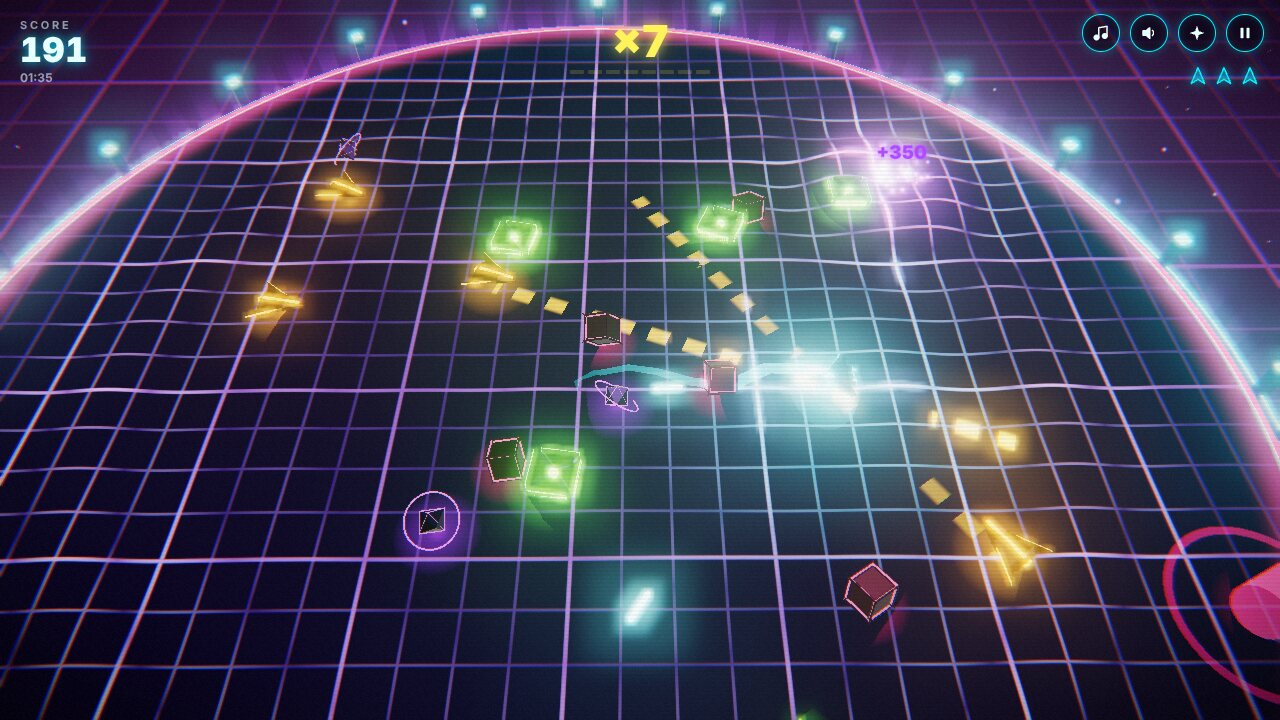
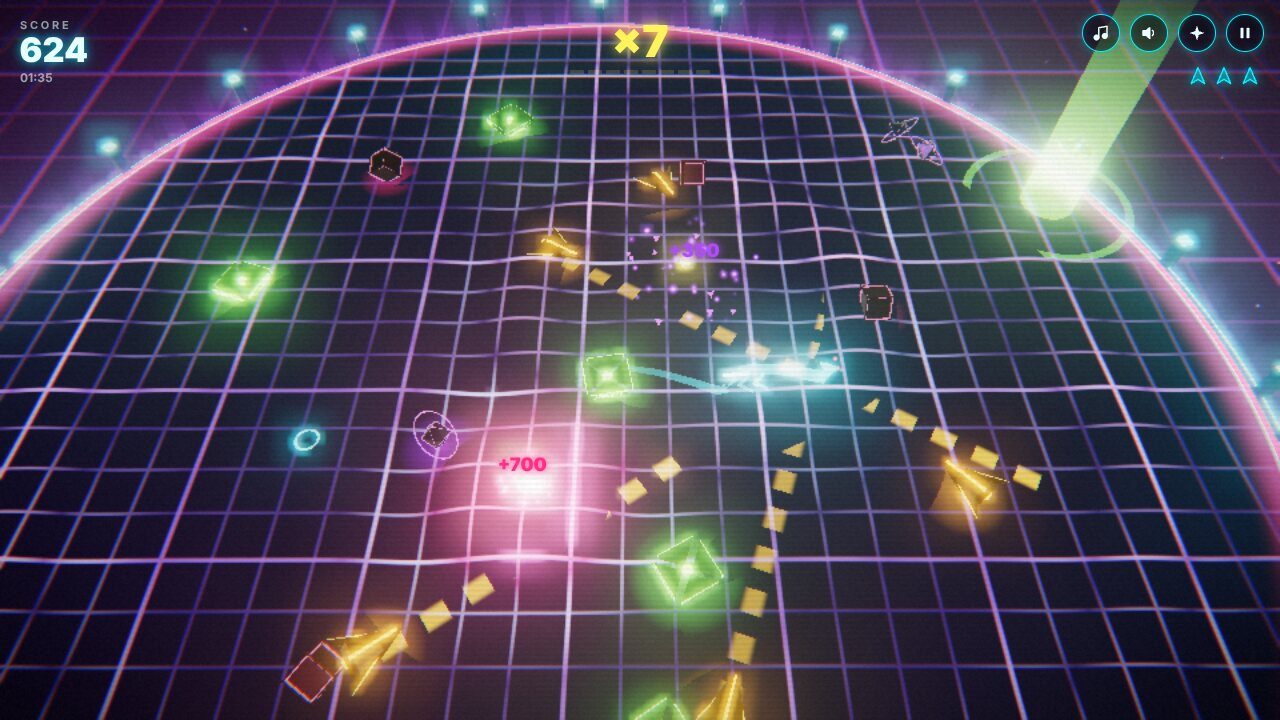
fix: make the PULSAR 3D ship readable and apply QA review fixes
- ship 45% larger with cyan-tinted hull and hotter trim; floor light pool
  under it toned down so heading and movement read; heading chevrons on the
  floor and a mouse reticle; stronger banking
- game over now releases dead enemies and clears bullets/sparks/power-ups
- Space activates a focused button; daily mode moved to Y (D is move-right)
- daily seed uses UTC and draws spawn positions before the enemy cap
- overdrive bullets track every enemy hit; newborn minis briefly immune
- particle scale follows the live FOV; music reverb rides the music bus;
  UI sounds no longer queue while audio is suspended; fewer per-frame
  allocations

Story: PROTO-PULSAR-01

Claude-Session: https://claude.ai/code/session_01EkkX7U38aBNCYxpxzdMGYb

diff --git a/prototypes/pulsar3d/index.html b/prototypes/pulsar3d/index.html
@@ -145,7 +145,7 @@
   <div class="tag">NEON ARENA SHOOTER</div>
   <div id="modes">
     <button class="mode" id="play"><b>PLAY</b><small>click · tap · space</small></button>
-    <button class="mode" id="daily"><b>DAILY PULSE</b><small id="dailySub">same run for everyone · D</small></button>
+    <button class="mode" id="daily"><b>DAILY PULSE</b><small id="dailySub">same run for everyone · Y</small></button>
   </div>
   <div id="bestLine"></div>
 </div>
@@ -215,6 +215,8 @@ const ENEMY = {
 const POWER = { spread: { label: 'SPREAD', color: '#4DFFC3' }, overdrive: { label: 'OVERDRIVE', color: '#FFF35C' }, shield: { label: 'SHIELD', color: '#00F0FF' } };
 const HEX = { player: '#00F0FF', spark: '#FFF35C', danger: '#FF3B30', pink: '#FF2E88', mint: '#4DFFC3', white: '#FFFFFF' };
 const col = h => new THREE.Color(h);
+const SHARED = {};
+const hdrC = (h, k) => SHARED[h + k] || (SHARED[h + k] = new THREE.Color(h).multiplyScalar(k)); // cached, read-only
 const hdr = (h, k) => new THREE.Color(h).multiplyScalar(k);
 
 // ---------- storage / settings ----------
@@ -226,7 +228,7 @@ const reduceMotion = (() => { try { return matchMedia('(prefers-reduced-motion: 
 const settings = Object.assign({ music: true, sfx: true, fx: reduceMotion ? 'calm' : 'full' }, store.get('pulsar3d_settings', {}));
 let best = Object.assign({ score: 0, mult: 1, chain: 0, time: 0 }, store.get('pulsar3d_best', {}));
 let dailyBest = store.get('pulsar3d_daily', { day: '', score: 0 });
-const todayKey = () => { const d = new Date(); return d.getFullYear() + '-' + (d.getMonth() + 1) + '-' + d.getDate(); };
+const todayKey = () => { const d = new Date(); return d.getUTCFullYear() + '-' + (d.getUTCMonth() + 1) + '-' + d.getUTCDate(); }; // UTC: one daily run worldwide
 
 // ---------- RNG ----------
 function mulberry32(a) { return function () { a |= 0; a = a + 0x6D2B79F5 | 0; let t = Math.imul(a ^ a >>> 15, 1 | a);
@@ -271,6 +273,7 @@ const Sound = {
     const len = c.sampleRate * 2, ir = c.createBuffer(2, len, c.sampleRate);
     for (let ch = 0; ch < 2; ch++) { const d = ir.getChannelData(ch); for (let i = 0; i < len; i++) d[i] = (Math.random() * 2 - 1) * Math.pow(1 - i / len, 3); }
     this.reverb = c.createConvolver(); this.reverb.buffer = ir; const rvOut = c.createGain(); rvOut.gain.value = 0.18; this.reverb.connect(rvOut); rvOut.connect(comp);
+    this.reverbMusic = c.createConvolver(); this.reverbMusic.buffer = ir; const rvm = c.createGain(); rvm.gain.value = 0.18; this.reverbMusic.connect(rvm); rvm.connect(this.duck);
     this.noise = c.createBuffer(1, c.sampleRate, c.sampleRate); const nd = this.noise.getChannelData(0); for (let i = 0; i < nd.length; i++) nd[i] = Math.random() * 2 - 1;
     const sb = c.createBufferSource(); sb.buffer = c.createBuffer(1, 1, 22050); sb.connect(c.destination); sb.start(0);
     this.ready = true; this.nextTime = c.currentTime + 0.08; this.startTime = this.nextTime; this.step = 0;
@@ -296,7 +299,7 @@ const Sound = {
     head.connect(g); this.env(g, t, o.a || 0.002, o.d, o.peak); g.connect(o.dest || this.sfx);
     const music = o.dest === this.pump;
     if (o.delay) { const s = c.createGain(); s.gain.value = o.delay; g.connect(s); s.connect(music ? this.delayMusic : this.delay); nodes.push(s); }
-    if (o.rev) { const s = c.createGain(); s.gain.value = o.rev; g.connect(s); s.connect(this.reverb); nodes.push(s); }
+    if (o.rev) { const s = c.createGain(); s.gain.value = o.rev; g.connect(s); s.connect(music ? this.reverbMusic : this.reverb); nodes.push(s); }
     osc.start(t); osc.stop(t + (o.a || 0.002) + o.d + 0.05); this.track(osc, nodes);
   },
   noiseHit(o) {
@@ -306,7 +309,7 @@ const Sound = {
     const g = c.createGain(), nodes = [fl, g]; src.connect(fl); let head = fl;
     if (o.shape) { fl.connect(o.shape); head = o.shape; nodes.push(o.shape); }
     head.connect(g); this.env(g, t, o.a || 0.001, o.d, o.peak); g.connect(o.dest || this.sfx);
-    if (o.rev) { const s = c.createGain(); s.gain.value = o.rev; g.connect(s); s.connect(this.reverb); nodes.push(s); }
+    if (o.rev) { const s = c.createGain(); s.gain.value = o.rev; g.connect(s); s.connect(o.dest === this.pump ? this.reverbMusic : this.reverb); nodes.push(s); }
     src.start(t, Math.random() * 0.5); src.stop(t + (o.a || 0.001) + o.d + 0.05); this.track(src, nodes);
   },
   softClip(k) { const n = 256, curve = new Float32Array(n); for (let i = 0; i < n; i++) { const x = i * 2 / n - 1; curve[i] = (1 + k) * x / (1 + k * Math.abs(x)); }
@@ -324,7 +327,7 @@ const Sound = {
     this.tone({ type: 'sine', f0: f * 0.5, f1: f, d: 0.16, a: 0.03, peak: 0.035, delay: 0.2 }); },
   spark(n) { if (!this.ok()) return; const f = 1400 * Math.pow(2, (n % CONFIG.sparksPerMult) / 12); this.tone({ type: 'sine', f0: f, f1: f * 1.5, d: 0.06, peak: 0.05 }); },
   pickup() { if (!this.ok(true)) return; const t = this.now; [523.25, 659.25, 783.99, 1046.5].forEach((f, i) => this.tone({ type: 'square', f0: f, d: 0.08, peak: 0.1, t: t + i * 0.05, delay: 0.25, filter: { type: 'lowpass', f: 4000 } })); },
-  hurt() { if (!this.ready || !settings.sfx) return; const c = this.ctx, t = c.currentTime;
+  hurt() { if (!this.ready || !settings.sfx || this.ctx.state !== 'running') return; const c = this.ctx, t = c.currentTime;
     const osc = c.createOscillator(), fl = c.createBiquadFilter(), g = c.createGain(), lfo = c.createOscillator(), lg = c.createGain(), gate = c.createGain();
     osc.type = 'sawtooth'; osc.frequency.setValueAtTime(300, t); osc.frequency.exponentialRampToValueAtTime(80, t + 0.25);
     fl.type = 'lowpass'; fl.frequency.value = 1200; lfo.type = 'square'; lfo.frequency.value = 30; lg.gain.value = 0.5; gate.gain.value = 0.5;
@@ -340,8 +343,8 @@ const Sound = {
   alarm() { if (!this.ok(true)) return; const t = this.now; for (let i = 0; i < 3; i++) this.tone({ type: 'sawtooth', f0: 220, f1: 440, d: 0.16, a: 0.01, peak: 0.07, t: t + i * 0.2, filter: { type: 'lowpass', f: 1800 } }); },
   dashCharge() { if (!this.ok()) return; this.tone({ type: 'sawtooth', f0: 120, f1: 520, d: 0.55, a: 0.05, peak: 0.04, filter: { type: 'lowpass', f: 1500 } }); },
   shieldBreak() { if (!this.ok(true)) return; this.tone({ type: 'triangle', f0: 1800, f1: 200, d: 0.35, peak: 0.18, rev: 0.4 }); this.noiseHit({ ft: 'highpass', f0: 3000, d: 0.2, peak: 0.15 }); },
-  gameOver() { if (!this.ready || !settings.sfx) return; this.tone({ type: 'sawtooth', f0: 220, f1: 55, d: 2.0, sweep: 1.5, peak: 0.25, filter: { type: 'lowpass', f: 2000, f1: 150, sweep: 1.5 }, rev: 0.7 }); },
-  click() { if (!this.ready || !settings.sfx) return; this.tone({ type: 'sine', f0: 1200, d: 0.03, a: 0.001, peak: 0.1 }); },
+  gameOver() { if (!this.ready || !settings.sfx || this.ctx.state !== 'running') return; this.tone({ type: 'sawtooth', f0: 220, f1: 55, d: 2.0, sweep: 1.5, peak: 0.25, filter: { type: 'lowpass', f: 2000, f1: 150, sweep: 1.5 }, rev: 0.7 }); },
+  click() { if (!this.ready || !settings.sfx || this.ctx.state !== 'running') return; this.tone({ type: 'sine', f0: 1200, d: 0.03, a: 0.001, peak: 0.1 }); },
   schedule() {
     if (!this.ready || this.ctx.state !== 'running') return;
     const stepDur = 60 / this.BPM / 4;
@@ -537,7 +540,7 @@ const floorMat = new THREE.ShaderMaterial({
       lineC += (minor + major) * min(wave, 1.2) * 0.8 * mix(vec3(0.1, 1.2, 1.6), vec3(1.6, 0.2, 0.9), clamp(vH * 0.6 + 0.5, 0.0, 1.0));
       vec3 c = base + lineC;
       vec2 dp = vW.xz - uPlayer.xz; float pd = dot(dp, dp);
-      c += vec3(0.0, 0.85, 1.0) * (exp(-pd * 0.07) * 0.22 + (minor + major) * exp(-pd * 0.03) * 0.6);
+      c += vec3(0.0, 0.85, 1.0) * (exp(-pd * 0.09) * 0.07 + (minor + major) * exp(-pd * 0.05) * 0.18);
       for (int i = 0; i < ${MAX_FL}; i++) { vec4 f = uFl[i]; if (f.w <= 0.001) continue; vec2 d = vW.xz - f.xy;
         float k = exp(-dot(d, d) / (f.z * f.z)); c += uFlC[i] * f.w * k * (0.35 + (minor + major) * 1.4); }
       float edge = smoothstep(uR - 2.2, uR, r);
@@ -590,9 +593,9 @@ const ringGeo = new THREE.RingGeometry(0.9, 1, 64); ringGeo.rotateX(-Math.PI / 2
 // =====================================================================
 const TEMPL = {};
 const UP = new THREE.Vector3(0, 1, 0);
-function materialsFor(hex, bodyTint = 0.07) {
+function materialsFor(hex, bodyTint = 0.07, glowK = 2.6) {
   const body = new THREE.MeshStandardMaterial({ color: new THREE.Color('#0d0b18').lerp(new THREE.Color(hex), bodyTint), metalness: 0.92, roughness: 0.26, envMapIntensity: 1.4 });
-  const glow = new THREE.MeshBasicMaterial({ color: hdr(hex, 2.6) });
+  const glow = new THREE.MeshBasicMaterial({ color: hdr(hex, glowK) });
   const glass = new THREE.MeshStandardMaterial({ color: new THREE.Color(hex).multiplyScalar(0.3), emissive: new THREE.Color(hex), emissiveIntensity: 0.6, metalness: 0.3, roughness: 0.05 });
   return { body, glow, glass };
 }
@@ -601,8 +604,8 @@ function sanitize(geo) { // a single NaN normal poisons the HDR bloom chain and 
   for (let i = 0; i < n.array.length; i++) if (!Number.isFinite(n.array[i])) { geo.computeVertexNormals(); break; }
   const fixed = geo.attributes.normal.array; for (let i = 0; i < fixed.length; i++) if (!Number.isFinite(fixed[i])) fixed[i] = 0;
 }
-function prepTemplate(src, hex) {
-  const root = src.clone(true), mats = materialsFor(hex);
+function prepTemplate(src, hex, bodyTint, glowK) {
+  const root = src.clone(true), mats = materialsFor(hex, bodyTint, glowK);
   root.traverse(o => { if (!o.isMesh) return; sanitize(o.geometry); const n = (o.material && o.material.name) || '';
     o.material = n.startsWith('Glow') ? mats.glow : n.startsWith('Glass') ? mats.glass : mats.body; });
   return root;
@@ -618,7 +621,7 @@ function fallbackModels() {
   return m;
 }
 function buildTemplates(models) {
-  TEMPL.player = prepTemplate(models.Player, HEX.player);
+  TEMPL.player = prepTemplate(models.Player, HEX.player, 0.32, 3.6);
   for (const t of Object.keys(ENEMY)) TEMPL[t] = prepTemplate(models[ENEMY[t].model], ENEMY[t].color);
 }
 
@@ -750,6 +753,15 @@ function updateTrail(x, z, y, ang, show) {
   trailGeo.attributes.position.needsUpdate = true; trailGeo.attributes.color.needsUpdate = true;
 }
 
+// heading chevron on the floor (always shows where the ship points) and mouse reticle
+const headingObj = new THREE.Group(); scene.add(headingObj);
+{ const sh = new THREE.Shape(); sh.moveTo(0, 0.55); sh.lineTo(-0.55, -0.15); sh.lineTo(-0.32, -0.15); sh.lineTo(0, 0.22); sh.lineTo(0.32, -0.15); sh.lineTo(0.55, -0.15); sh.closePath(); // tip → local -Z (forward)
+  const g = new THREE.ShapeGeometry(sh); g.rotateX(-Math.PI / 2);
+  const m = new THREE.MeshBasicMaterial({ color: hdr(HEX.player, 1.6), transparent: true, depthWrite: false, blending: THREE.AdditiveBlending });
+  [2.3, 3.0].forEach((z, i) => { const c = new THREE.Mesh(g, i ? m.clone() : m); c.position.set(0, 0.06, -z); if (i) c.material.color = hdr(HEX.player, 0.8); headingObj.add(c); }); }
+const reticle = new THREE.Mesh(new THREE.RingGeometry(0.42, 0.55, 32).rotateX(-Math.PI / 2), new THREE.MeshBasicMaterial({ color: hdr(HEX.player, 1.4), transparent: true, depthWrite: false, blending: THREE.AdditiveBlending }));
+scene.add(reticle);
+
 // power-up objects
 const powerObjs = {};
 function makePowerObj(type) {
@@ -818,8 +830,8 @@ function spawnPos(minD) { // fixed number of draws keeps seeded (daily) runs in 
   return pick || c[0];
 }
 function spawnEnemy(type, x, z, warp = CONFIG.spawnWarp) {
+  if (x == null) [x, z] = spawnPos(CONFIG.spawnSafeDist); // draw before the cap check so seeded runs never drift
   if (enemies.length >= CONFIG.maxEnemies) return null;
-  if (x == null) [x, z] = spawnPos(CONFIG.spawnSafeDist);
   const d = ENEMY[type], obj = getEnemyObject(type);
   const e = { id: G.uid++, type, x, z, vx: 0, vz: 0, r: d.r, hp: d.hp, warp, warpMax: warp || 1, ang: rand(0, TAU), wander: rand(0, TAU),
     state: 'rest', timer: d.restTime ? rand(0.4, 1.4) : 0, dashLeft: 0, dir: 0, grazed: false, flash: 0, dead: false, obj, bob: rand(0, TAU) };
@@ -867,7 +879,7 @@ function killEnemy(e, scored) {
   const ns = e.type === 'splitter' ? 3 : 1;
   for (let i = 0; i < ns && sparks.length < MAXS; i++) { const a = rand(0, TAU), s = rand(1.5, 4.5); sparks.push({ x: e.x, z: e.z, vx: Math.cos(a) * s, vz: Math.sin(a) * s, life: CONFIG.sparkLife, ang: rand(0, TAU), y: 2.2, vy: 4 }); }
   if (e.type === 'splitter') for (let i = 0; i < 3; i++) { const a = e.ang + i * TAU / 3;
-    const m = spawnEnemy('mini', e.x + Math.cos(a) * 0.6, e.z + Math.sin(a) * 0.6, 0); if (m) { m.vx = Math.cos(a) * 13; m.vz = Math.sin(a) * 13; } }
+    const m = spawnEnemy('mini', e.x + Math.cos(a) * 0.6, e.z + Math.sin(a) * 0.6, 0); if (m) { m.vx = Math.cos(a) * 13; m.vz = Math.sin(a) * 13; m.immune = 0.12; } }
   if (!powerups.length && G.t - G.lastPower > CONFIG.powerMinGap && dropRng() < CONFIG.powerChance) {
     const types = Object.keys(POWER), type = types[Math.floor(dropRng() * types.length)];
     const rr = Math.min(Math.hypot(e.x, e.z), CONFIG.arenaR - 3), aa = Math.atan2(e.z, e.x);
@@ -913,6 +925,7 @@ function hitPlayer() {
 }
 function endGame() {
   G.state = 'over'; G.overT = 0; playerShadow.visible = false;
+  bullets = []; sparks = []; for (const p of powerups) p.obj.visible = false; powerups = [];
   const run = G.runId;
   enemies.forEach((e, i) => setTimeout(() => { if (G.state === 'over' && G.runId === run) killEnemy(e, false); }, 40 + i * 18));
   if (G.mode === 'daily') { const today = todayKey(), prev = dailyBest.day === today ? dailyBest.score : 0;
@@ -949,7 +962,7 @@ canvas.addEventListener('pointerdown', e => {
 }, { passive: false });
 window.addEventListener('pointermove', e => {
   if (e.pointerType === 'mouse') { input.sx = e.clientX; input.sy = e.clientY;
-    if (!input.mouseMoved && G.state === 'playing') G.autoAim = false; input.mouseMoved = true; if (input.touchMode) { input.touchMode = false; refreshHints(); } return; }
+    if (!input.mouseMoved && G.state === 'playing') { G.autoAim = false; refreshHints(); } input.mouseMoved = true; if (input.touchMode) { input.touchMode = false; refreshHints(); } return; }
   const s = input.stick; if (s.active && e.pointerId === s.id) { s.x = e.clientX; s.y = e.clientY;
     const dx = s.x - s.ox, dy = s.y - s.oy, d = Math.hypot(dx, dy), R = 70; if (d > R) { s.ox = s.x - dx / d * R; s.oy = s.y - dy / d * R; } }
 });
@@ -957,10 +970,12 @@ const endStick = e => { if (input.stick.active && e.pointerId === input.stick.id
 window.addEventListener('pointerup', endStick); window.addEventListener('pointercancel', endStick);
 window.addEventListener('keydown', e => {
   const k = e.code; Sound.init();
+  const onButton = document.activeElement && document.activeElement.tagName === 'BUTTON';
+  if ((k === 'Space' || k === 'Enter') && onButton) return; // let the focused button click itself
   if (['ArrowUp', 'ArrowDown', 'ArrowLeft', 'ArrowRight', 'Space'].includes(k)) e.preventDefault();
   if (e.repeat) return; input.keys[k] = true;
-  if (k === 'Space' || k === 'Enter') { if (document.activeElement && document.activeElement.tagName === 'BUTTON') return; primary(); }
-  else if (k === 'KeyD' && G.state === 'title') startGame('daily');
+  if (k === 'Space' || k === 'Enter') primary();
+  else if (k === 'KeyY' && G.state === 'title') startGame('daily');
   else if (k === 'KeyT' || (k === 'Escape' && G.state === 'over')) goTitle();
   else if (k === 'Escape' || k === 'KeyP') togglePause();
   else if (k === 'KeyM') toggleSetting('music');
@@ -1002,7 +1017,7 @@ const shipSvg = '<svg viewBox="0 0 24 24"><path d="M12 2 L20 21 L12 16 L4 21 Z" 
 function renderLives() { hudEls.lives.innerHTML = shipSvg.repeat(Math.max(0, G.lives)); }
 function refreshHints() {
   $('controls').innerHTML = input.touchMode ? 'drag anywhere to move · auto-aim &amp; auto-fire'
-    : '<span class="kbd">WASD</span> move · <span class="kbd">MOUSE</span> aim · auto-fire · <span class="kbd">P</span> pause · <span class="kbd">M</span> music · <span class="kbd">N</span> sfx · <span class="kbd">F</span> effects';
+    : '<span class="kbd">WASD</span> move · <span class="kbd">MOUSE</span> aim · auto-fire · <span class="kbd">Y</span> daily · <span class="kbd">P</span> pause · <span class="kbd">M</span> music · <span class="kbd">N</span> sfx · <span class="kbd">F</span> effects';
   hudEls.hint.querySelector('.a').textContent = input.touchMode ? 'DRAG ANYWHERE TO MOVE · AUTO-FIRE' : (G.autoAim ? 'WASD / ARROWS TO MOVE · AUTO-AIM' : 'WASD TO MOVE · MOUSE TO AIM · AUTO-FIRE');
   $('pauseHint').textContent = input.touchMode ? 'tap to continue' : 'click · space · P to continue';
   $('retry').textContent = input.touchMode ? 'TAP TO RETRY' : 'CLICK · SPACE TO RETRY';
@@ -1012,7 +1027,7 @@ function showScreen(s) {
   $('hud').classList.toggle('hidden', !(s === 'play' || s === 'pause')); $('pause').classList.toggle('hidden', s !== 'pause');
   $('bPause').classList.toggle('hidden', !(s === 'play' || s === 'pause'));
   const ov = $('over'); if (s === 'over') { ov.classList.remove('hidden'); requestAnimationFrame(() => ov.classList.add('show')); fillGameOver(); } else { ov.classList.add('hidden'); ov.classList.remove('show'); }
-  if (s === 'title') { const db = dailyBest.day === todayKey() && dailyBest.score ? 'today ' + fmt(dailyBest.score) : 'same run for everyone · D';
+  if (s === 'title') { const db = dailyBest.day === todayKey() && dailyBest.score ? 'today ' + fmt(dailyBest.score) : 'same run for everyone · Y';
     $('dailySub').textContent = db; $('bestLine').textContent = best.score > 0 ? 'BEST ' + fmt(best.score) + '  ·  PEAK ×' + (best.mult || 1) : ''; }
   if (s === 'play') { renderLives(); refreshHints(); }
   refreshHints();
@@ -1089,22 +1104,22 @@ function updatePlayer(dt) {
   if (target) turn(Math.atan2(tz - player.z, tx - player.x), 22); else if (ml > 0.1) turn(Math.atan2(mz, mx), 10);
   // bank into lateral motion
   const fx = Math.cos(player.ang), fz = Math.sin(player.ang), lat = (player.vx * -fz + player.vz * fx) / CONFIG.playerSpeed;
-  player.bank = lerp(player.bank, -lat * 0.7, Math.min(1, dt * 8));
+  player.bank = lerp(player.bank, -lat * 1.0, Math.min(1, dt * 8));
   // fire
   const over = G.powerT.overdrive > 0, rate = CONFIG.fireRate * (over ? 2 : 1);
   player.fireCd -= dt;
   if (target && player.fireCd <= 0) {
     player.fireCd += 1 / rate; if (player.fireCd < 0) player.fireCd = 0;
-    const angs = G.powerT.spread > 0 ? [-0.26, -0.13, 0, 0.13, 0.26] : [0], c = over ? HEX.spark : G.powerT.spread > 0 ? HEX.mint : '#7ff8ff';
+    const angs = G.powerT.spread > 0 ? [-0.26, -0.13, 0, 0.13, 0.26] : [0], c = over ? HEX.spark : G.powerT.spread > 0 ? HEX.mint : '#7ff8ff', bc = hdrC(c, 3.2);
     for (const off of angs) { if (bullets.length >= MAXB) break; const an = player.ang + off + rand(-0.025, 0.025);
-      bullets.push({ x: player.x + Math.cos(an) * 1.0, z: player.z + Math.sin(an) * 1.0, vx: Math.cos(an) * CONFIG.bulletSpeed, vz: Math.sin(an) * CONFIG.bulletSpeed, life: CONFIG.bulletLife, pierce: over, hitId: -1, c: hdr(c, 3.2) }); }
+      bullets.push({ x: player.x + Math.cos(an) * 1.0, z: player.z + Math.sin(an) * 1.0, vx: Math.cos(an) * CONFIG.bulletSpeed, vz: Math.sin(an) * CONFIG.bulletSpeed, life: CONFIG.bulletLife, pierce: over, hits: over ? new Set() : null, hitId: -1, c: bc }); }
     Sound.shot();
-    emit(player.x + fx * 1.1, CONFIG.hover, player.z + fz * 1.1, fx * 8 + rand(-2, 2), rand(0, 1.5), fz * 8 + rand(-2, 2), 0.08, hdr('#ffffff', 2), 0.7);
+    emit(player.x + fx * 1.1, CONFIG.hover, player.z + fz * 1.1, fx * 8 + rand(-2, 2), rand(0, 1.5), fz * 8 + rand(-2, 2), 0.08, hdrC('#ffffff', 2), 0.7);
   }
   // engine exhaust + wake
   const sp = Math.hypot(player.vx, player.vz);
   for (const side of [-0.28, 0.28]) { const ex = player.x - fx * 0.75 - fz * side, ez = player.z - fz * 0.75 + fx * side;
-    emit(ex, CONFIG.hover, ez, -fx * rand(3, 7) + rand(-1, 1), rand(-0.5, 0.5), -fz * rand(3, 7) + rand(-1, 1), rand(0.12, 0.28), Math.random() < 0.25 ? hdr(HEX.pink, 2) : hdr(HEX.player, 2), 0.35); }
+    emit(ex, CONFIG.hover, ez, -fx * rand(3, 7) + rand(-1, 1), rand(-0.5, 0.5), -fz * rand(3, 7) + rand(-1, 1), rand(0.12, 0.28), Math.random() < 0.25 ? hdrC(HEX.pink, 2) : hdrC(HEX.player, 2), 0.35); }
   if (sp > 3 && Math.random() < 0.25) ripple(player.x, player.z, 0.12 * sp / CONFIG.playerSpeed);
   if (player.invuln > 0) player.invuln -= dt;
   for (const p in G.powerT) if (G.powerT[p] > 0) G.powerT[p] = Math.max(0, G.powerT[p] - dt);
@@ -1114,7 +1129,7 @@ function updateEnemies(dt) {
   const ss = 1 + Math.min(CONFIG.speedRampMax, G.t / CONFIG.speedRampTime), px = player.x, pz = player.z;
   for (const e of enemies) {
     if (e.dead) continue; const d = ENEMY[e.type];
-    if (e.flash > 0) e.flash -= dt;
+    if (e.flash > 0) e.flash -= dt; if (e.immune > 0) e.immune -= dt;
     if (e.warp > 0) { e.warp -= dt; e.ang += dt * 8; if (e.warp <= 0) { e.obj.beam.visible = false; shock(e.x, e.z, 0.08, d.r * 2.5, 0.2, d.color); } continue; }
     const dx = px - e.x, dz = pz - e.z, dist = Math.hypot(dx, dz) || 1, ux = dx / dist, uz = dz / dist;
     if (player.dead) { e.vx *= 0.95; e.vz *= 0.95; }
@@ -1132,7 +1147,7 @@ function updateEnemies(dt) {
       else if (e.state === 'aim') { e.vx *= 0.85; e.vz *= 0.85; if (e.timer > 0.25) e.dir = Math.atan2(uz, ux); e.ang = e.dir;
         e.timer -= dt; if (e.timer <= 0) { e.state = 'dash'; e.dashLeft = d.dashDist; ripple(e.x, e.z, 0.6); } }
       else { const v = d.dashSpeed * ss; e.vx = Math.cos(e.dir) * v; e.vz = Math.sin(e.dir) * v; e.dashLeft -= v * dt;
-        emit(e.x, CONFIG.hover, e.z, -e.vx * 0.15 + rand(-2, 2), rand(0, 1), -e.vz * 0.15 + rand(-2, 2), 0.3, hdr(d.color, 2.2), 0.5);
+        emit(e.x, CONFIG.hover, e.z, -e.vx * 0.15 + rand(-2, 2), rand(0, 1), -e.vz * 0.15 + rand(-2, 2), 0.3, hdrC(d.color, 2.2), 0.5);
         if (e.dashLeft <= 0) { e.state = 'rest'; e.timer = d.restTime; } }
     }
     e.x += e.vx * dt; e.z += e.vz * dt;
@@ -1159,10 +1174,10 @@ function updateBullets(dt) {
     b.x += b.vx * dt; b.z += b.vz * dt; b.life -= dt;
     if (b.x * b.x + b.z * b.z > R2) { b.life = 0; burst(b.x, b.z, CONFIG.hover, b.c, 4, 2, 6, 0.1, 0.25, 0.35); floorFlash(b.x, b.z, '#00F0FF', 0.8, 1.6, 0.15); continue; }
     for (const e of enemies) {
-      if (e.dead || e.warp > 0 || e.id === b.hitId) continue;
+      if (e.dead || e.warp > 0 || e.immune > 0 || e.id === b.hitId || (b.hits && b.hits.has(e.id))) continue;
       const dx = e.x - b.x, dz = e.z - b.z, rr = e.r + 0.3;
       if (dx * dx + dz * dz < rr * rr) {
-        e.hp--; e.flash = 0.06; b.hitId = e.id; e.vx += b.vx * 0.04; e.vz += b.vz * 0.04;
+        e.hp--; e.flash = 0.06; b.hitId = e.id; if (b.hits) b.hits.add(e.id); e.vx += b.vx * 0.04; e.vz += b.vz * 0.04;
         if (e.hp <= 0) killEnemy(e, true); else { Sound.hit(); burst(b.x, b.z, CONFIG.hover, hdr(ENEMY[e.type].color, 2.4), 8, 3, 10, 0.12, 0.25, 0.4); }
         if (!b.pierce) { b.life = 0; break; }
       }
@@ -1188,7 +1203,7 @@ function updatePickups(dt) {
 function step(dt) {
   if (G.state === 'paused' || G.state === 'loading') return;
   if (G.state === 'title' || G.state === 'over') {
-    if (G.state === 'over') G.overT += dt;
+    if (G.state === 'over') { G.overT += dt; enemies = enemies.filter(e => { if (e.dead) { releaseEnemyObject(e.type, e.obj); return false; } return true; }); }
     if (G.state === 'title' && Math.random() < dt * 0.7) { const a = rand(0, TAU), r = rand(0, CONFIG.arenaR * 0.8); ripple(Math.cos(a) * r, Math.sin(a) * r, rand(0.5, 1.1)); }
     updateParticles(dt); updateDebris(dt); updateRings(dt); return;
   }
@@ -1219,9 +1234,11 @@ function syncScene(dt) {
   const py = CONFIG.hover + Math.sin(time * 3) * 0.08;
   playerObj.position.set(player.x, py, player.z); playerObj.rotation.y = -player.ang - Math.PI / 2; playerBank.rotation.z = player.bank;
   playerShadow.position.set(player.x, 0.03, player.z); playerShadow.visible = pv && !player.dead;
-  playerLight.position.set(player.x, 2.0, player.z); playerLight.intensity = pv && !player.dead ? 40 : 0;
+  playerLight.position.set(player.x, 2.0, player.z); playerLight.intensity = pv && !player.dead ? 22 : 0;
   shieldMesh.visible = G.powerT.shield > 0 && playing && !(G.powerT.shield < 3 && Math.floor(G.powerT.shield * 8) % 2);
   shieldMesh.rotation.set(time * 0.7, time * 1.1, 0);
+  headingObj.visible = pv && !player.dead; headingObj.position.set(player.x, 0, player.z); headingObj.rotation.y = playerObj.rotation.y;
+  reticle.visible = playing && !G.autoAim && !player.dead; reticle.position.set(input.mx, 0.07, input.mz); reticle.rotation.y = time;
   updateTrail(player.x, player.z, py, player.ang, pv && !player.dead);
 
   // enemies
@@ -1268,7 +1285,7 @@ function syncScene(dt) {
   camPos.lerp(wantPos, lk); camLook.lerp(wantLook, lk);
   camera.position.copy(camPos); camera.position.x += tr * rand(-0.9, 0.9); camera.position.y += tr * rand(-0.6, 0.6); camera.position.z += tr * rand(-0.6, 0.6);
   camera.lookAt(camLook); camera.rotation.z += -player.vx / CONFIG.playerSpeed * 0.02 * (playing ? 1 : 0) + tr * rand(-0.03, 0.03);
-  const fov = baseFov + G.fovKick * 6 * fxMul; if (Math.abs(camera.fov - fov) > 0.01) { camera.fov = fov; camera.updateProjectionMatrix(); }
+  const fov = baseFov + G.fovKick * 6 * fxMul; if (Math.abs(camera.fov - fov) > 0.01) { camera.fov = fov; camera.updateProjectionMatrix(); updatePointScale(); }
 
   // post
   fxPass.uniforms.uTime.value = time; fxPass.uniforms.uAberr.value = settings.fx === 'full' ? G.aberr : 0; fxPass.uniforms.uFlash.value = G.flash * (settings.fx === 'full' ? 1 : 0.55);
@@ -1296,9 +1313,9 @@ function resize() {
   renderer.setPixelRatio(perf.pr); renderer.setSize(w, h, false); composer.setPixelRatio(perf.pr); composer.setSize(w, h);
   bloomPass.resolution.set(w * perf.pr * 0.5, h * perf.pr * 0.5);
   camera.aspect = aspect; camera.updateProjectionMatrix();
-  const sc = h * perf.pr / (2 * Math.tan(THREE.MathUtils.degToRad(camera.fov / 2)));
-  pMat.uniforms.uScale.value = sc; emberMat.uniforms.uScale.value = sc; fxPass.uniforms.uRes.value.set(w * perf.pr, h * perf.pr);
+  updatePointScale(); fxPass.uniforms.uRes.value.set(w * perf.pr, h * perf.pr);
 }
+function updatePointScale() { const sc = innerHeight * perf.pr / (2 * Math.tan(THREE.MathUtils.degToRad(camera.fov / 2))); pMat.uniforms.uScale.value = sc; emberMat.uniforms.uScale.value = sc; }
 window.addEventListener('resize', resize);
 let last = performance.now(), adaptT = 0;
 function loop(now) {
@@ -1320,7 +1337,7 @@ function loop(now) {
 refreshButtons(); refreshHints(); resize();
 function boot(models) {
   buildTemplates(models);
-  const pl = TEMPL.player.clone(true); pl.scale.setScalar(1.0); playerBank.add(pl);
+  const pl = TEMPL.player.clone(true); pl.scale.setScalar(1.45); playerBank.add(pl);
   const leg = $('legend');
   [['drifter', 'DRIFTER', 'wanders'], ['chaser', 'CHASER', 'hunts you'], ['splitter', 'SPLITTER', 'splits in 3'], ['dasher', 'DASHER', 'telegraphs · dashes']].forEach(([t, name, desc]) => {
     const obj = makeEnemyObject(t); obj.beam.visible = false; obj.model.scale.setScalar(ENEMY[t].r * 1.0); obj.root.visible = false; showcase.push({ t, obj });

diff --git a/prototypes/pulsar3d/README.md b/prototypes/pulsar3d/README.md
@@ -37,7 +37,7 @@ internet access.
 | Desktop | WASD or arrows move · the mouse aims · fire is automatic · `P` pause · `M` music · `N` sfx · `F` effects full/calm · `T` menu |
 | Mobile | drag anywhere to move (floating stick) · aim and fire are automatic |
 
-Modes: **PLAY** (arcade) and **DAILY PULSE**, where everyone gets the same
+Modes: **PLAY** (arcade) and **DAILY PULSE** (`Y`), where everyone gets the same
 seeded run each day.
 
 ## How it's built
